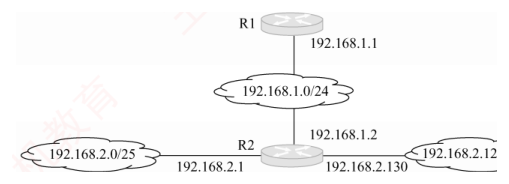
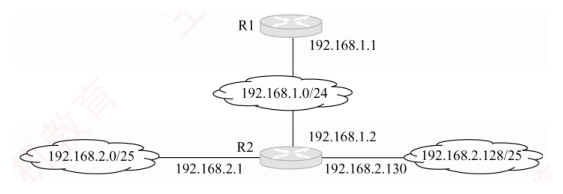
fix(bank-408): net X53 拓扑图补全右侧 192.168.2.128/25 与 R2 下缘

Changed region(s): [[0.0295, 0.0543, 0.9725, 0.9511]]

diff --git a/math-bank/index.html b/math-bank/index.html
@@ -22,20 +22,20 @@
 <link rel="stylesheet" href="https://cdn.jsdelivr.net/npm/katex@0.16.9/dist/katex.min.css">
 <script src="https://cdn.jsdelivr.net/npm/katex@0.16.9/dist/katex.min.js"></script>
 <!-- 不用 Google Fonts：国内常被墙/超时，阻塞首屏导致白屏 -->
-<link rel="stylesheet" href="styles.css?v=503">
-<script>window.__BANK_DATA_VER__='503';</script>
+<link rel="stylesheet" href="styles.css?v=504">
+<script>window.__BANK_DATA_VER__='504';</script>
 <script>
 (function () {
   var base = (location.pathname || '').indexOf('/banks/') === 0
     ? '/banks/common/'
     : 'vendor/viewer-common/';
   document.write('<script src="' + base + 'storage.js"><\/script>');
-  document.write('<script src="' + base + 'platform-sync.js?v=503"><\/script>');
-      document.write('<link rel="stylesheet" href="' + base + 'scratch-pad.css?v=503">');
-      document.write('<script src="' + base + 'scratch-ink.js?v=503"><\/script>');
-      document.write('<script src="' + base + 'scratch-pad.js?v=503"><\/script>');
-  document.write('<script src="' + base + 'question-notes.js?v=503"><\/script>');
-  document.write('<script src="' + base + 'pdf-export.js?v=503"><\/script>');
+  document.write('<script src="' + base + 'platform-sync.js?v=504"><\/script>');
+      document.write('<link rel="stylesheet" href="' + base + 'scratch-pad.css?v=504">');
+      document.write('<script src="' + base + 'scratch-ink.js?v=504"><\/script>');
+      document.write('<script src="' + base + 'scratch-pad.js?v=504"><\/script>');
+  document.write('<script src="' + base + 'question-notes.js?v=504"><\/script>');
+  document.write('<script src="' + base + 'pdf-export.js?v=504"><\/script>');
 })();
 </script>
 </head>
@@ -414,9 +414,9 @@
   </div>
 </div>
 
-<script src="data.js?v=503"></script>
-<script src="choice-only.js?v=503"></script>
-<script src="app.js?v=503"></script>
+<script src="data.js?v=504"></script>
+<script src="choice-only.js?v=504"></script>
+<script src="app.js?v=504"></script>
 <div id="platformSyncBar" class="platform-sync-bar" hidden aria-hidden="true">
   <div class="platform-sync-bar-text" id="platformSyncBarText"></div>
   <button type="button" class="btn btn-primary" id="platformSyncBarBtn" hidden>重试同步</button>

diff --git a/math-bank/app.js b/math-bank/app.js
@@ -5859,7 +5859,7 @@ init();
 // PWA：注册 Service Worker（换 CACHE 版本后主动 update，避免旧 CSS 一直 stale）
 if ('serviceWorker' in navigator) {
   window.addEventListener('load', () => {
-    navigator.serviceWorker.register('./sw.js?v=503').then((reg) => {
+    navigator.serviceWorker.register('./sw.js?v=504').then((reg) => {
       reg.update().catch(() => {});
       console.log('[SW] registered, scope:', reg.scope);
     }).catch((err) => {

diff --git a/math-bank/sw.js b/math-bank/sw.js
@@ -2,13 +2,13 @@
 // JS/CSS/HTML + 题库数据 JSON：Network-First（避免题干修了仍显示旧缓存）
 // 其它同源静态：Stale-While-Revalidate
 
-const CACHE_NAME = 'wd408-ui-v503';
+const CACHE_NAME = 'wd408-ui-v504';
 const APP_SHELL = [
   './',
   './index.html',
-  './styles.css?v=503',
-  './app.js?v=503',
-  './data.js?v=503',
+  './styles.css?v=504',
+  './app.js?v=504',
+  './data.js?v=504',
   './manifest.json'
 ];
 

diff --git a/doc/ocr-fixes.md b/doc/ocr-fixes.md
@@ -3715,3 +3715,11 @@ OS 选择题池 649 题，seen 从零建。20 题里 1 道真缺陷。连对 0/3
 - **修复**：`fix_one.py --batch` 把 content 改成真管道表（题干 + 空行 + 表头 + 分隔行 + 4 行），重建 net；缓存戳 502→503。
 - **回归**：发布态断言 1 题通过；rebuild 内 `pytest` 150 passed；`quality_ledger.py --refresh-hashes --check-published` 0 问题（逐题哈希按去空白比较，纯版式改动不算漂移）；浏览器打开 `/?course=计算机网络&chapter=网络层 · IPv4 · 选择题&q=X12`，详情页已是两列表格、四行对齐。
 - **踩到的坑**：`fix_one.py` 收尾的「重导本机平台题池」会失败——`quality-hold.json` / `quality-ledger.json` 的课程哈希只在 `quality_ledger.py --refresh-hashes` 里刷新，`fix_one` 不跑它。手动刷新后 `import_408_banks.py` 得 `408-cs408-net updated 1`。
+
+## 2026-10-29 · net X53 拓扑图右/下被切（主人「这一题图截的不完整」）
+
+- **病征**：X53（p161，2011 统考真题，R1/R2 三子网拓扑）题图只有 509×184，右端 `192.168.2.128/25` 那朵云只剩半截 `192.168.2.12`，R2 与左右网段下缘同样被切。
+- **根因**：`data/fig_manual_boxes.json` 的 `net:161:X53` 人工框 `[275,855,765,1015]` 右边界短了约 50px、下边界压到 R2。原页 `assets/pdf_images/net/page_161.png` 上该图墨迹实为 x289–811 / y861–1014。
+- **修复**：人工框改 `[281,853,820,1023]`，`auto_recrop_figs.py --only net:161:X53` 重裁为 563×194，R1、192.168.1.0/24、R2、192.168.2.0/25、192.168.2.1/130、192.168.2.128/25 全在框内。`rebuild_bank.ps1 -Course net` 经 `fix_questions.existing_stem_crop` 沿用已有裁图（不会按 bbox 反向盖掉）；本次只改图，`data-*.json` 内容不变，缓存戳 503→504 来自壳哈希。
+- **回归**：rebuild 内 `pytest` 150 passed；`tests/test_choice_only_viewer.py` 21 passed（`?v=` / `__BANK_DATA_VER__` / `sw.js` 三处戳一致）。
+- **云端**：`push_data.ps1` → `remote __BANK_DATA_VER__=504`，`crops/net/page_161_X53.png` 远端哈希一致；公网 `/banks/408/crops/net/page_161_X53.png?v=504` 200、563×194。data-*.json 未变，平台 408 池按设计跳过重导。
